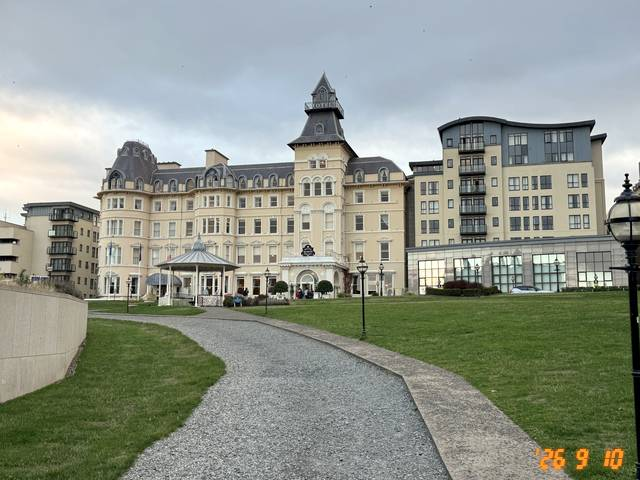
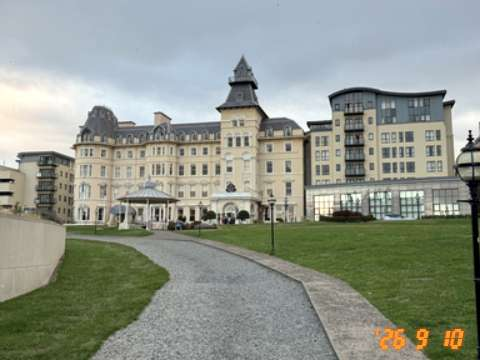
What's New：おみくじ・掲示板へのリンク、日本農薬学会誌の個別ページを追加、写真の解像度を下げる
- 「研究おみくじ」の語におみくじへのリンク、掲示板のお知らせは掲示板へ
- 日本農薬学会誌のお知らせを連載名つきの文面にし、news-202608.html（内容の紹介と目次へのリンク2つ）へ
- KES 2026 の写真を 480×360（384×288 から引きのばし）に、「（写真あり）」を削除

Claude-Session: https://claude.ai/code/session_01XE3pdFztAXTt19tEWY7nd9

diff --git a/news-202608.html b/news-202608.html
@@ -1,0 +1,91 @@
+<!DOCTYPE html>
+<html lang="ja">
+<head>
+<meta charset="utf-8">
+<meta name="viewport" content="width=device-width, initial-scale=1, viewport-fit=cover">
+<title>日本農薬学会誌に載りました｜小林由幸のホームページ</title>
+<meta name="description" content="日本農薬学会誌のショートレビューに「データサイエンスが拓く農薬レギュラトリーサイエンスの飛躍」が載ったお知らせと内容の紹介です。">
+<link rel="canonical" href="https://yoshiyukikobayashi.com/news-202608.html">
+<meta property="og:type" content="article">
+<meta property="og:site_name" content="小林由幸のホームページ">
+<meta property="og:title" content="日本農薬学会誌に載りました｜小林由幸のホームページ">
+<meta property="og:description" content="日本農薬学会誌のショートレビューに「データサイエンスが拓く農薬レギュラトリーサイエンスの飛躍」が載ったお知らせと内容の紹介です。">
+<meta property="og:url" content="https://yoshiyukikobayashi.com/news-202608.html">
+<meta property="og:image" content="https://yoshiyukikobayashi.com/img/ogp.png">
+<meta name="twitter:card" content="summary_large_image">
+<link rel="icon" href="img/favicon.svg" type="image/svg+xml">
+<link rel="preconnect" href="https://fonts.googleapis.com">
+<link rel="preconnect" href="https://fonts.gstatic.com" crossorigin>
+<link rel="stylesheet" href="https://fonts.googleapis.com/css2?family=DotGothic16&amp;family=Mochiy+Pop+One&amp;display=swap">
+<link rel="stylesheet" href="css/style.css">
+</head>
+<body>
+<a class="skip" href="#main">本文へスキップ</a>
+<div class="wrap">
+<header class="site-head" id="top">
+<p class="site-title"><a href="index.html">☆小林由幸のホームページ☆</a></p>
+<p class="site-sub">Yoshiyuki Kobayashi's Home Page ～薬学×衛生学×情報学×レギュラトリーサイエンス～</p>
+
+</header>
+<div class="layout">
+<nav class="menu" aria-label="メニュー">
+<p class="menu-head">MENU</p>
+<ul>
+<li><a class="btn" href="index.html">TOP<small>Top</small></a></li>
+<li><a class="btn" href="profile.html">管理人について<small>Profile</small></a></li>
+<li><a class="btn" href="research.html">研究の部屋<small>Research</small></a></li>
+<li><a class="btn" href="papers.html">論文置き場<small>Publications</small></a></li>
+<li><a class="btn" href="teaching.html">講義・教育<small>Teaching</small></a></li>
+<li><a class="btn" href="omikuji.html">研究おみくじ <span class="new">NEW!</span><small>Omikuji</small></a></li>
+<li><a class="btn" href="bbs.html">掲示板 <span class="new">NEW!</span><small>BBS</small></a></li>
+<li><a class="btn" href="zakki.html">雑記帳（工事中）<small>Diary</small></a></li>
+<li><a class="btn" href="links.html">リンク集<small>Links</small></a></li>
+<li><a class="btn" href="en.html">English</a></li>
+</ul>
+<p class="menu-foot">お気に入りに登録してね☆</p>
+</nav>
+<main class="main" id="main">
+<p class="crumb small"><a href="index.html">TOP</a> ＞ <a href="news.html">What's New 過去ログ</a> ＞ 日本農薬学会誌に載りました</p>
+<h1 class="page-title">☆日本農薬学会誌に載りました☆</h1>
+<p class="news-date">2026.08　カテゴリ：論文</p>
+<p>日本農薬学会誌のショートレビュー「農薬科学とその周辺―最近の話題―」に原稿が載りました<span class="kao">(^^)v</span></p>
+<div class="tbl-wrap"><table class="tbl">
+<tr><th>題目</th><td>データサイエンスが拓く農薬レギュラトリーサイエンスの飛躍</td></tr>
+<tr><th>著者</th><td><b>小林由幸</b></td></tr>
+<tr><th>掲載誌</th><td>日本農薬学会誌 51(2): 202–205（2026年）</td></tr>
+<tr><th>連載</th><td>ショートレビュー　農薬科学とその周辺―最近の話題―</td></tr>
+<tr><th>DOI</th><td><a href="https://doi.org/10.1584/jpestics.W26-47" target="_blank" rel="noopener">10.1584/jpestics.W26-47</a></td></tr>
+</table></div>
+
+<h2 class="bar">■ どんな内容？</h2>
+<p>農薬の有効性と安全性を判断するレギュラトリーサイエンスにデータサイエンスがどう役立つのかをまとめたショートレビューです。取り上げたのは次の5つです。</p>
+<ul class="dot">
+<li>登録試験のデータを速度論モデルで解析し、残留性の指標（DT<sub>50</sub>）を読み直す</li>
+<li>機械学習で農薬の環境中での動きや毒性を予測する（QSAR・QSPR）</li>
+<li>分光・画像解析とAIを組み合わせて残留農薬を壊さずにすばやく調べる</li>
+<li>自然言語処理と大規模言語モデルで論文や特許から知識を取り出す</li>
+<li>ベイズ統計でリスクを不確実性ごと確率として評価する</li>
+</ul>
+<p>管理人自身の研究（農薬の土壌吸着係数や魚の生物濃縮係数の予測、バイオスティミュラントの特許と論文の分析）も紹介しています。最後に実際の評価に生かすための課題として、データ基盤の整備・モデルの透明性の確保・分野をこえた協働の3つを挙げました。</p>
+
+<h2 class="bar">■ 読むには</h2>
+<ul class="dot">
+<li><a href="https://pssj2.jp/journal/new/con-jj512.html" target="_blank" rel="noopener">日本農薬学会のサイト（日本農薬学会誌 51巻2号の目次）</a></li>
+<li><a href="https://mol.medicalonline.jp/archive/search?jo=cy3ninog&amp;ye=2026&amp;vo=51&amp;issue=2" target="_blank" rel="noopener">メディカルオンライン（日本農薬学会誌 51巻2号）</a></li>
+</ul>
+<p>感想は<a href="bbs.html">掲示板</a>へどうぞ♪</p>
+<hr class="rainbow">
+<p class="center"><a href="news.html">≪ What's New 過去ログへ</a>　｜　<a href="index.html">TOPへ戻る</a></p>
+</main>
+</div>
+<footer class="site-foot">
+<p><a href="#top">▲ページの先頭へ</a>　｜　<a href="index.html">TOPへ戻る</a></p>
+<p>メール：工事中<br><span class="small">※ドメインの準備ができたらここにアドレスを載せます。</span></p>
+<p class="small">当サイトは小林由幸の個人ホームページです。所属機関の見解を示すものではありません。<br>なお、当サイトの内容は査読を経ていません（論文は経ています）。<br>アクセス解析に GoatCounter を使っています（Cookie は使いません）。</p>
+<p class="copy">Copyright (C) 2026 Yoshiyuki Kobayashi. All Rights Reserved.<br>Since 2026.10.17 ／ 最終更新 2026.10.17</p>
+</footer>
+</div>
+<script data-goatcounter="https://yoshiyukikobayashi.goatcounter.com/count" async src="https://gc.zgo.at/count.js"></script>
+<script src="js/site.js" defer></script>
+</body>
+</html>

diff --git a/news.html b/news.html
@@ -50,15 +50,15 @@
 <h2 class="bar">■ 2026年</h2>
 <dl class="news news-log">
 <dt>2026.10.17 <span class="new">NEW!</span></dt>
-<dd>研究おみくじの運勢を増やしました！</dd>
+<dd><a href="omikuji.html">研究おみくじ</a>の運勢を増やしました！</dd>
 <dt>2026.10.17 <span class="new">NEW!</span></dt>
-<dd>掲示板（BBS）を設置しました！</dd>
+<dd><a href="bbs.html">掲示板（BBS）を設置しました！</a></dd>
 <dt>2026.10.17</dt>
 <dd>ホームページを開設しました！<span class="kao">(^^)v</span></dd>
 <dt>2026.09.11</dt>
-<dd><a href="news-20260911.html">国際会議 KES 2026（アイルランド・ダブリン）の招待セッションで発表しました。</a><span class="small">（写真あり）</span></dd>
+<dd><a href="news-20260911.html">国際会議 KES 2026（アイルランド・ダブリン）の招待セッションで発表しました。</a></dd>
 <dt>2026.08</dt>
-<dd>日本農薬学会誌に「データサイエンスが拓く農薬レギュラトリーサイエンスの飛躍」が載りました。</dd>
+<dd><a href="news-202608.html">日本農薬学会誌ショートレビュー　農薬科学とその周辺―最近の話題―に「データサイエンスが拓く農薬レギュラトリーサイエンスの飛躍」が載りました。</a></dd>
 <dt>2026.04</dt>
 <dd>星薬科大学 薬学部の講師になりました。</dd>
 <dt>2026.03</dt>

diff --git a/index.html b/index.html
@@ -118,15 +118,15 @@
 <h2 class="box-head">What's New!</h2>
 <dl class="news">
 <dt>2026.10.17 <span class="new">NEW!</span></dt>
-<dd>研究おみくじの運勢を増やしました！</dd>
+<dd><a href="omikuji.html">研究おみくじ</a>の運勢を増やしました！</dd>
 <dt>2026.10.17 <span class="new">NEW!</span></dt>
-<dd>掲示板（BBS）を設置しました！</dd>
+<dd><a href="bbs.html">掲示板（BBS）を設置しました！</a></dd>
 <dt>2026.10.17</dt>
 <dd>ホームページを開設しました！<span class="kao">(^^)v</span></dd>
 <dt>2026.09.11</dt>
-<dd><a href="news-20260911.html">国際会議 KES 2026（アイルランド・ダブリン）の招待セッションで発表しました。</a><span class="small">（写真あり）</span></dd>
+<dd><a href="news-20260911.html">国際会議 KES 2026（アイルランド・ダブリン）の招待セッションで発表しました。</a></dd>
 <dt>2026.08</dt>
-<dd>日本農薬学会誌に「データサイエンスが拓く農薬レギュラトリーサイエンスの飛躍」が載りました。</dd>
+<dd><a href="news-202608.html">日本農薬学会誌ショートレビュー　農薬科学とその周辺―最近の話題―に「データサイエンスが拓く農薬レギュラトリーサイエンスの飛躍」が載りました。</a></dd>
 <dt>2026.04</dt>
 <dd>星薬科大学 薬学部の講師になりました。</dd>
 <dt>2026.03</dt>

diff --git a/news-20260911.html b/news-20260911.html
@@ -61,7 +61,7 @@
 <p>管楽器の演奏と歯科をテーマにした研究が形態から機能へとどう移ってきたのかを、テキストマイニングでたどった発表です。</p>
 
 <h2 class="bar">■ 写真館</h2>
-<p class="small">写真をクリックすると大きくなります（640×480、1枚30〜50KBくらいです）。</p>
+<p class="small">写真をクリックすると大きくなります（480×360、1枚20KBくらいです）。</p>
 <div class="gallery">
 <figure><a href="img/news/20260911-1.jpg" target="_blank" rel="noopener"><img src="img/news/20260911-1s.jpg" width="160" height="120" alt="会場の Royal Marine Hotel の外観"></a><figcaption>会場の Royal Marine Hotel。前の日の夕方に撮りました。</figcaption></figure>
 <figure><a href="img/news/20260911-2.jpg" target="_blank" rel="noopener"><img src="img/news/20260911-2s.jpg" width="160" height="120" alt="会場の案内板の前に立つ管理人"></a><figcaption>発表の日の朝に会場の案内板の前で。</figcaption></figure>
